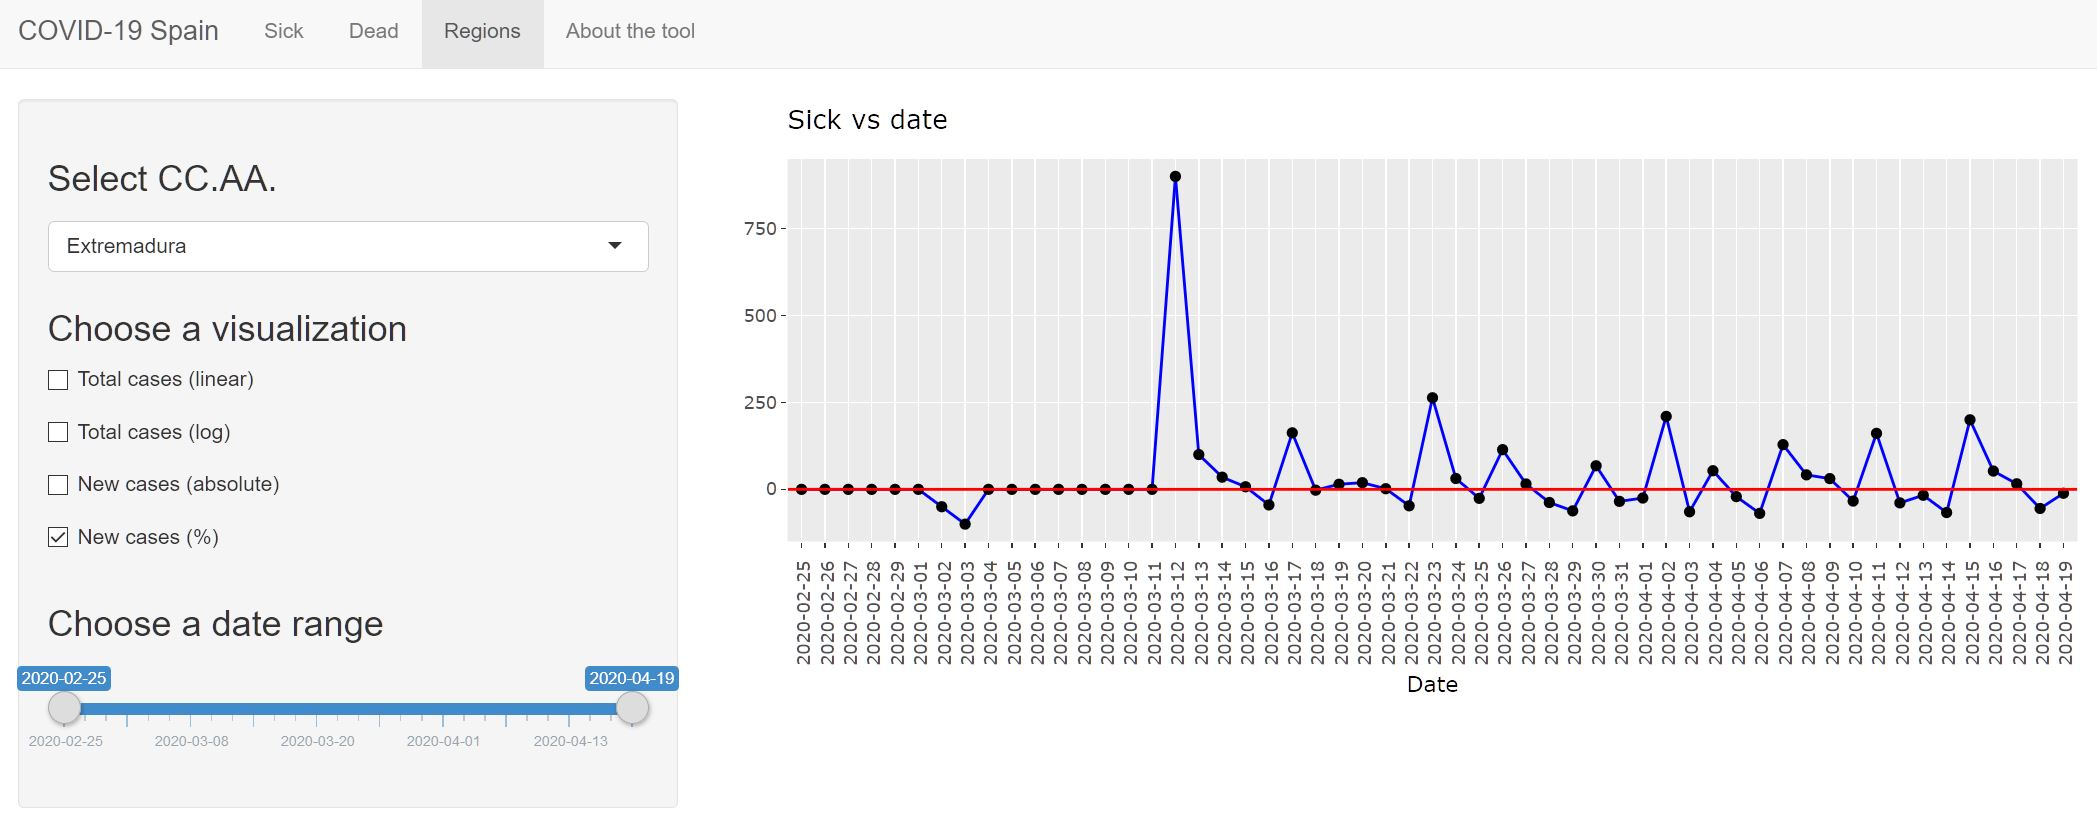
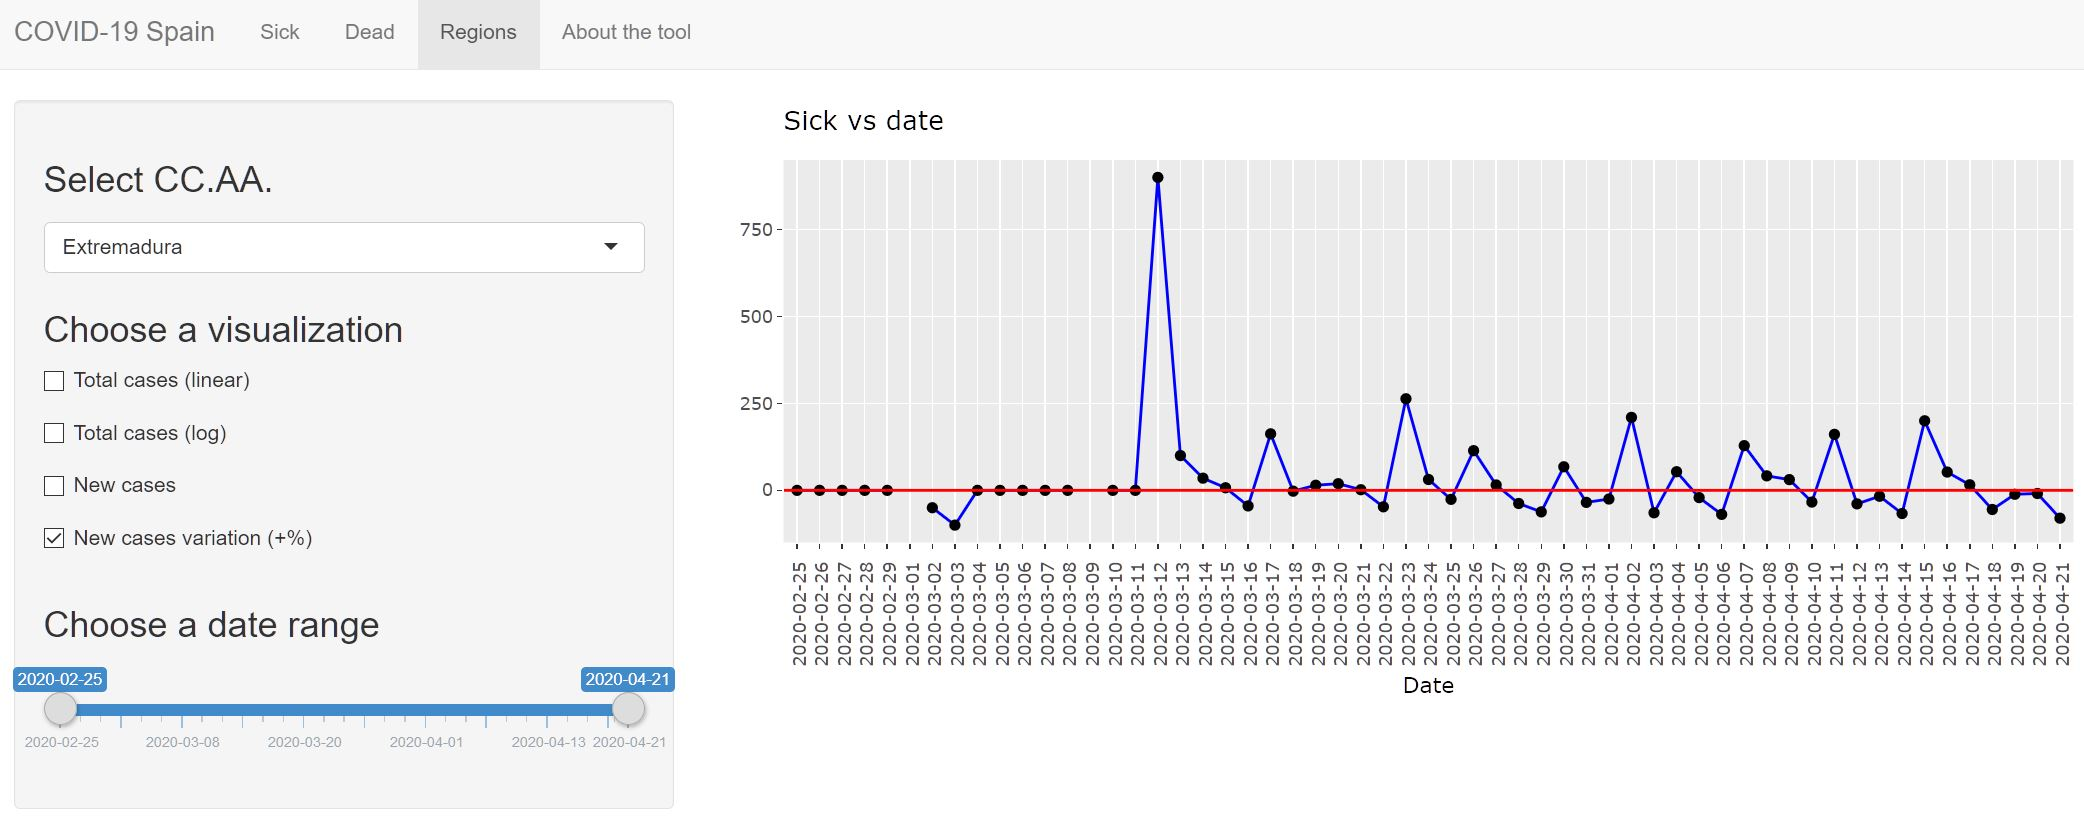
Plot names modified

diff --git a/README.md b/README.md
@@ -7,8 +7,8 @@ COVID-19 Spain is a visualization tool that allows the interactive study of the 
 The user can visualize the national sick and dead count and the regional sick count. Each of this options can be explored through an adjustable date range and four different visualizations:
 * Total cases (linear)
 * Total cases (log)
-* New cases (absolute)
-* New cases (+%)
+* New cases
+* New cases variation (+%)
 
 It has been developped with the [R programming language](https://www.r-project.org/), uses the [Shiny library](https://shiny.rstudio.com/) in order to make the plots interactive and is hosted on the [shinnyapps.io web page](https://www.shinyapps.io/).
 
@@ -32,7 +32,7 @@ The tool has been designed to be intuitive to use. The user does not have to int
 
 When the tool is started, the user encounters a screen like this:
 
-![Opening screen](./www/global_view.JPG)
+![Global view](./www/global_view.JPG)
 
 On the top of the screen we can see four tabs (Sick, Dead, Regions and About the tool). On the left part of the screen we can see the control panel and, on the left, the plot panel. The image corresponds to the Sick tab, which is the one opened by default.
 #### Sick tab
@@ -43,12 +43,12 @@ The Sick tab displays plots concerning the number of people infected with COVID-
 
 
 * **Total cases (log)**: It is similar to the previous plot. It displays the total number of sick people (y axis) against the date (x axis) using a log10 scale for the y axis. In this case, the points in the y axis are not equally distributed. The distance between 10 and 100 is the same as the distance between 100 and 1000.
-* **New cases (absolute)**: Plots the number of people that get infected each day. The number of sick people is displayed in the y axis (using a linear scale) and the date, in the x axis. Using the previous example, if the first day there are 10 sick people and on the second day there are 10 new more cases, the numbers on the plot will be 10 and 10, respectively.
+* **New cases**: Plots the number of people that get infected each day. The number of sick people is displayed in the y axis (using a linear scale) and the date, in the x axis. Using the previous example, if the first day there are 10 sick people and on the second day there are 10 new more cases, the numbers on the plot will be 10 and 10, respectively.
 
-* **New cases (+%)**: It is similar to the previous plot. It displays the percertange of new infections with respect to the previous day against the date. The percertange is plotted in the y axis and the date, again, in the x axis. The percertange represented is the percertange difference between the new cases of one date and the previous one. The following table offers an example.
-<img src="./www/table.JPG" width="425" height="231" />
+* **New cases variation (+%)**: It is similar to the previous plot. It displays the percertange of new infections with respect to the previous day against the date. The percertange is plotted in the y axis and the date, again, in the x axis. The percertange represented is the percertange difference between the new cases of one date and the previous one. The following table offers an example.
+<img src="./www/table.JPG" width="414" height="223" />
 
-The user can place the mouse over any point in the plot and obtain information about the date and the number of sick people. Which visualization is shown is controlled by clicking on the control panel checkboxes. The four visualizations can be displayed simultaneously. The date range is adjusted by moving the slider ends to the desired dates. In the next image we can see an example where the user has chosen two visualizations (total cases (log) and new cases (absolute)) and a date range between the 2020-03-11 and the 2020-04-7, both included.
+The user can place the mouse over any point in the plot and obtain information about the date and the number of sick people. Which visualization is shown is controlled by clicking on the control panel checkboxes. The four visualizations can be displayed simultaneously. The date range is adjusted by moving the slider ends to the desired dates. In the next image we can see an example where the user has chosen two visualizations (total cases (log) and new cases) and a date range between the 2020-03-11 and the 2020-04-7, both included.
 
 ![Sick tab example](./www/sick_tab.JPG)
 
